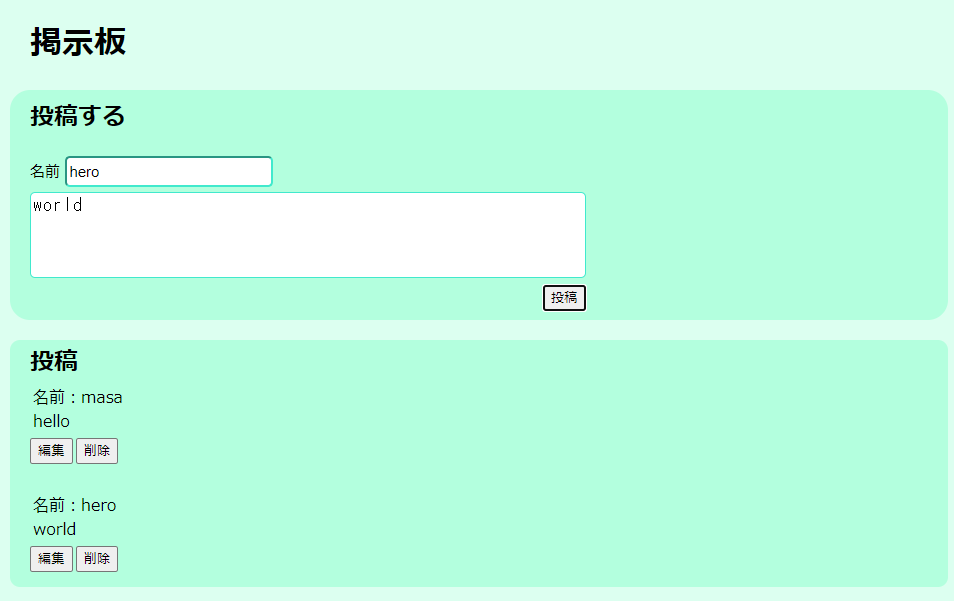
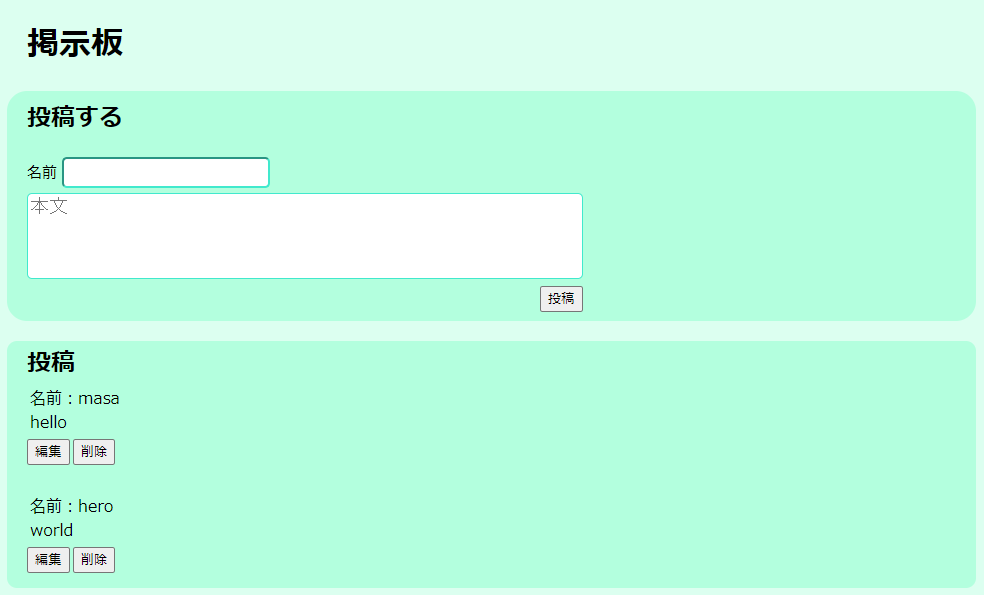
edit README and add edit button functionality

Changed region(s): [[0.0, 0.1513, 1.0, 0.9983], [0.0304, 0.0303, 0.152, 0.121], [0.9727, 0.1513, 1.0, 0.1815]]

diff --git a/app.js b/app.js
@@ -53,6 +53,8 @@ form.addEventListener("submit", (event) => {
         allBtn.forEach((Btn) => {
             if (Btn !== editComp) {
                 Btn.disabled = true;
+                username.disabled = true;
+                centence.disabled = true;
             }
         })
 
@@ -76,6 +78,8 @@ form.addEventListener("submit", (event) => {
             allBtn.forEach((Btn) => {
                 if (Btn.disabled) {
                     Btn.disabled = false;
+                    username.disabled = false;
+                    centence.disabled = false;
                 }
             })
         })

diff --git a/README.md b/README.md
@@ -15,6 +15,9 @@
 
 ![bulletin_board2](/image/image2.png)
 
+編集ボタンを押したとき
+![bulletin_board3](/image/image3.png)
+
 ## Coding languages
 
 - HTML / CSS
